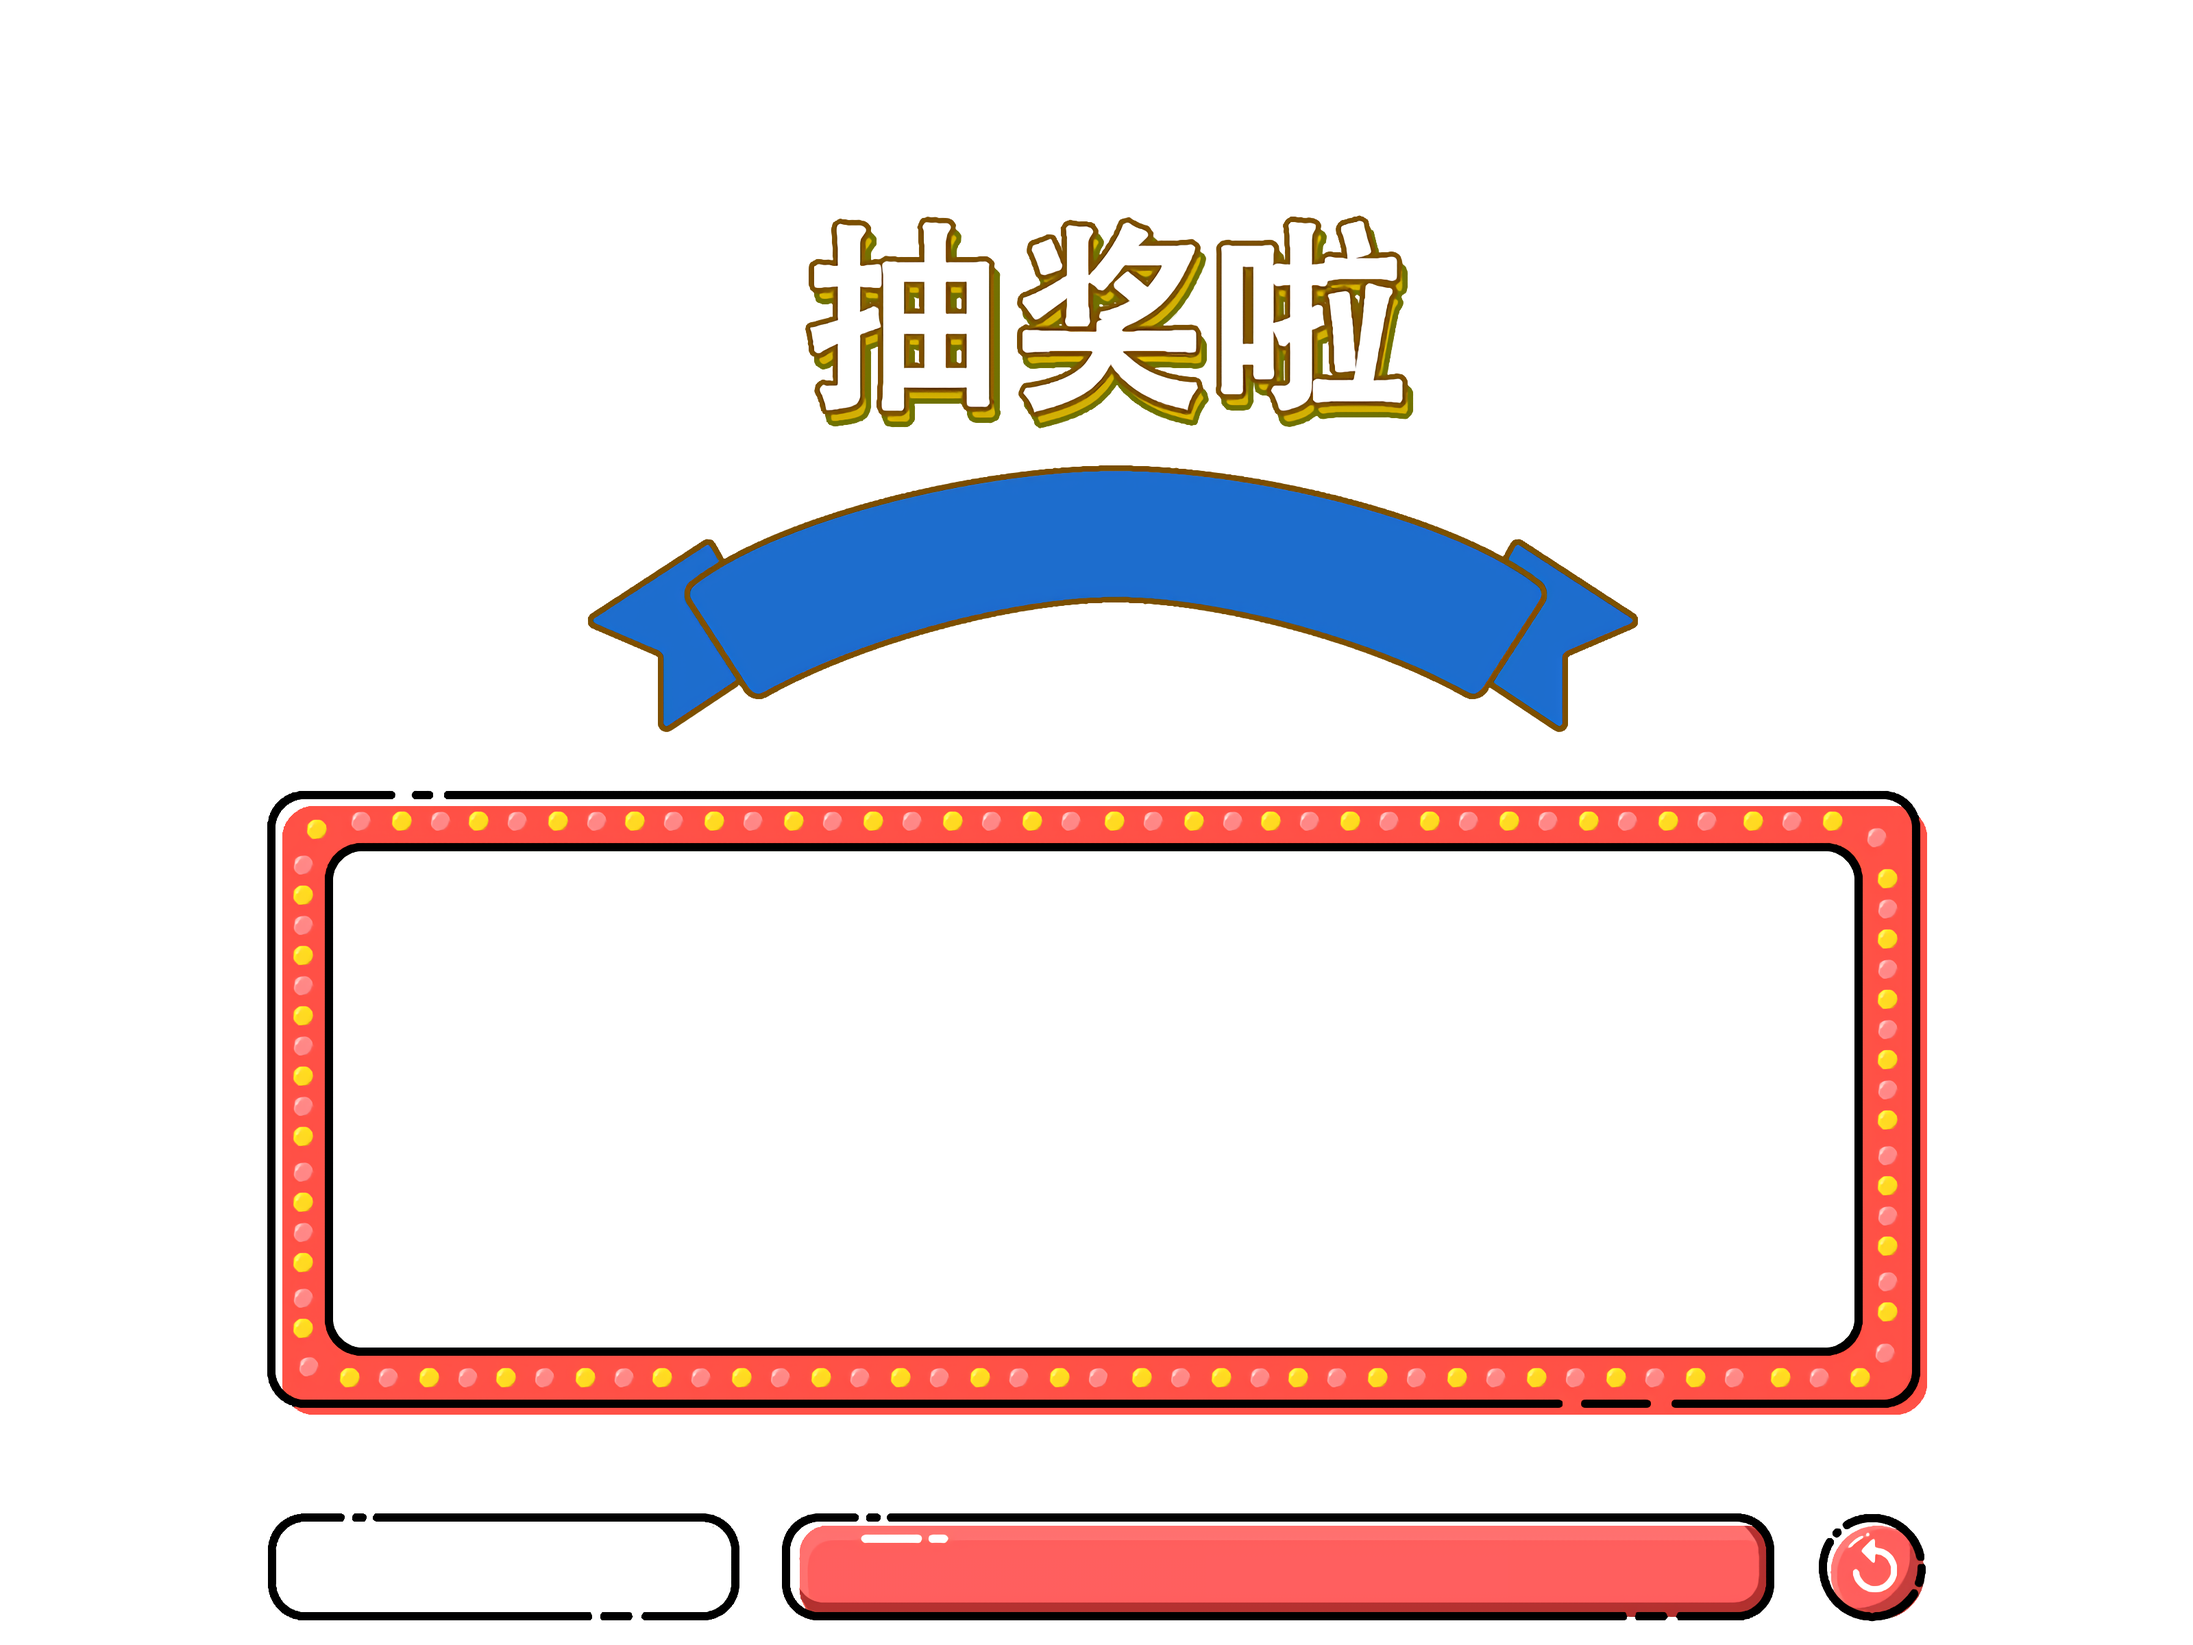
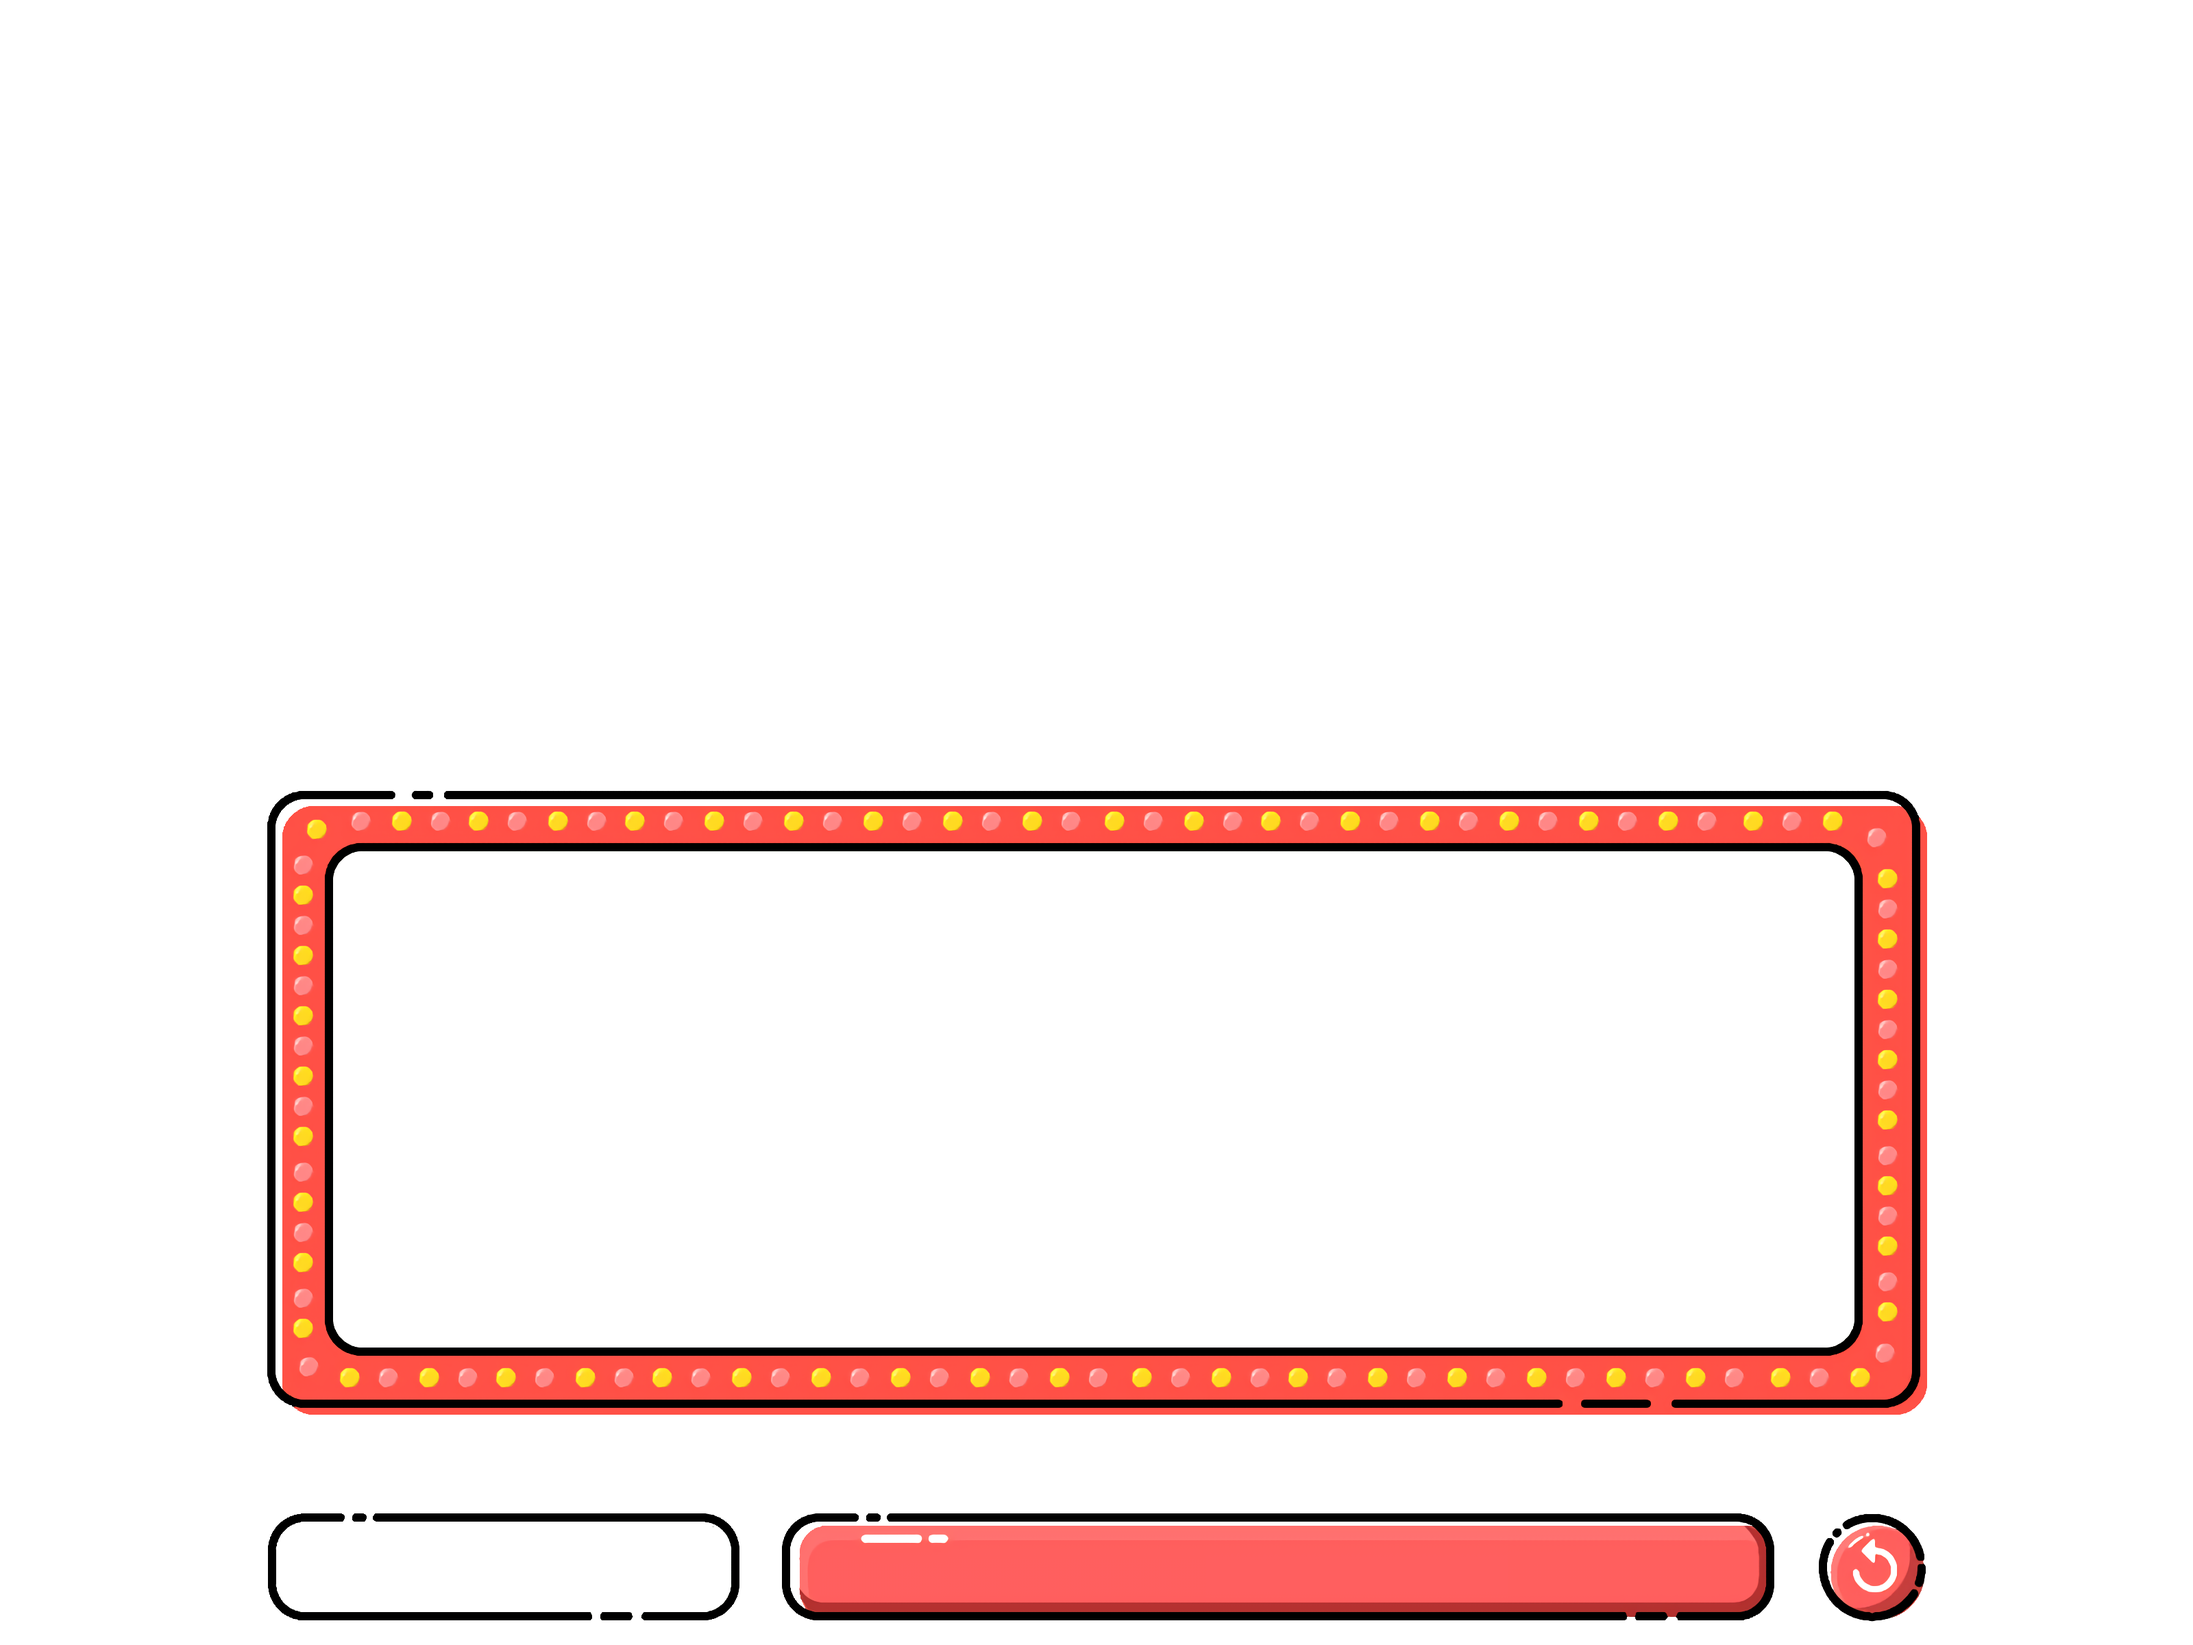
全屏

Changed region(s): [[0.25, 0.125, 0.75, 0.4375]]

diff --git a/js/index.js b/js/index.js
@@ -59,6 +59,29 @@ var pool = [
     ]
 ]
 
+
+
+function toggleFullScreen(forceToDo) {
+    if (!document.fullscreenElement && // alternative standard method
+        !document.mozFullScreenElement && !document.webkitFullscreenElement || forceToDo) {// current working methods
+        if (document.documentElement.requestFullscreen) {
+            document.documentElement.requestFullscreen();
+        } else if (document.documentElement.mozRequestFullScreen) {
+            document.documentElement.mozRequestFullScreen();
+        } else if (document.documentElement.webkitRequestFullscreen) {
+            document.documentElement.webkitRequestFullscreen(Element.ALLOW_KEYBOARD_INPUT);
+        }
+    } else {
+        if (document.cancelFullScreen) {
+            document.cancelFullScreen();
+        } else if (document.mozCancelFullScreen) {
+            document.mozCancelFullScreen();
+        } else if (document.webkitCancelFullScreen) {
+            document.webkitCancelFullScreen();
+        }
+    }
+}
+
 $(function () {
     iconAnimation();
     //开始抽奖
@@ -106,9 +129,10 @@ $(function () {
         var confirmReset = false;
         showConfirm("确认重置吗？所有已中奖的人会重新回到抽奖池！", function () {
             //熏置未中奖人员名单
-            remainPerson = allPerson.toString().split(";");
+          
+            remainPerson = allPerson;
             //中奖人数框置空
-            $("#txtNum").val("").attr("placeholder", "请输入第几轮");
+            $("#txtNum").val(1).attr("placeholder", "请输入第几轮");
             $("#showName").val("");
             //隐藏中奖名单,然后显示抽奖框
             $("#result").fadeOut("normal", function () {

diff --git a/css/style.css b/css/style.css
@@ -163,14 +163,14 @@ body {
 }
 
 body>div {
-    zoom: 2.85;
+    zoom: 3;
     position: absolute;
     top: 50%;
     left: 50%;
     margin: -300px auto auto -400px;
     width: 800px;
     height: 600px;
-    top: 25px;
+    top: 40px;
 }
 
 body>div>bg {
@@ -318,7 +318,7 @@ body>div>footer>div>input {
     -moz-box-sizing: border-box;
     box-sizing: border-box;
     width: 172px;
-    margin-right: 16px;
+    /* margin-right: 16px; */
 }
 
 body>div>footer>div>button {

diff --git a/index.html b/index.html
@@ -29,7 +29,7 @@
         </section>
         <footer>
             <div><input type="number" id="txtNum" value="" placeholder="请输入第几轮">
-                <button id="btnStart">开始</button>
+                <button id="btnStart" onclick="toggleFullScreen(true);">开始</button>
                 <button id="btnReset">&nbsp;</button>
             </div>
         </footer>
